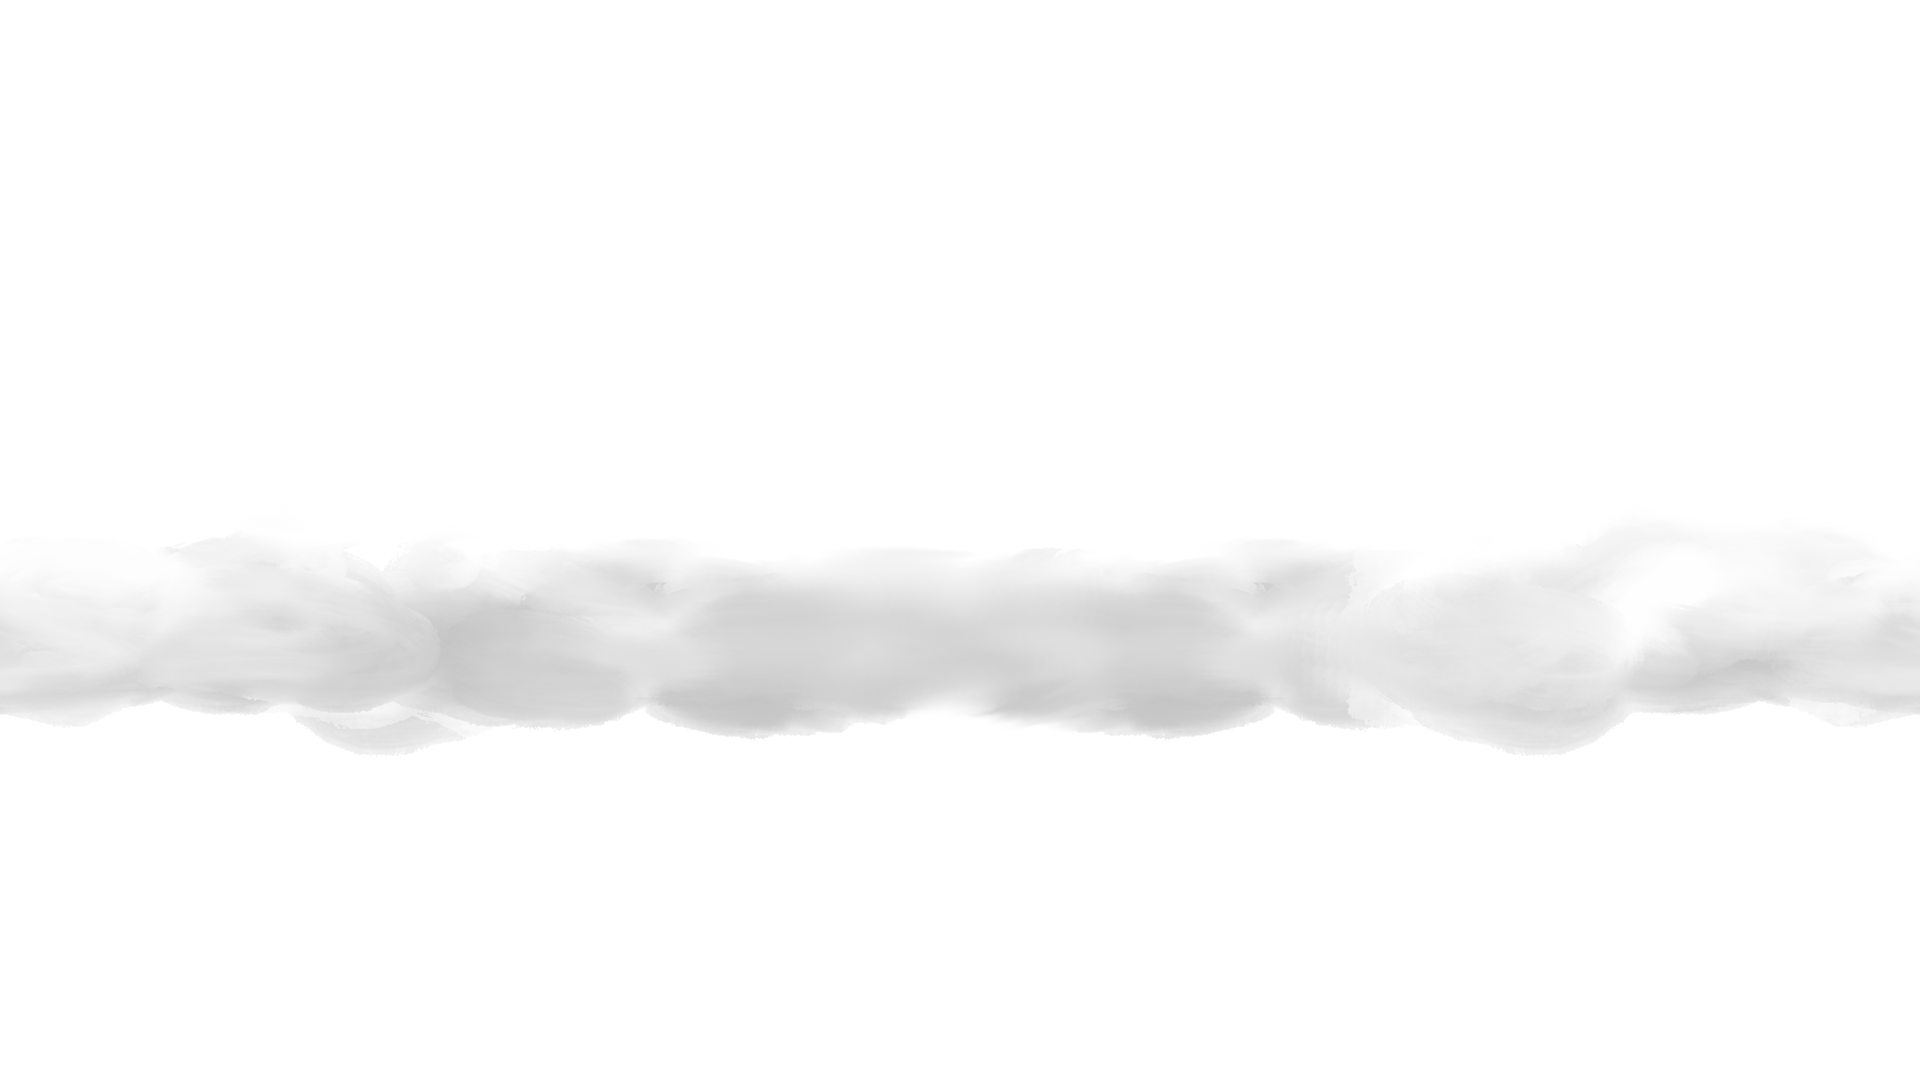
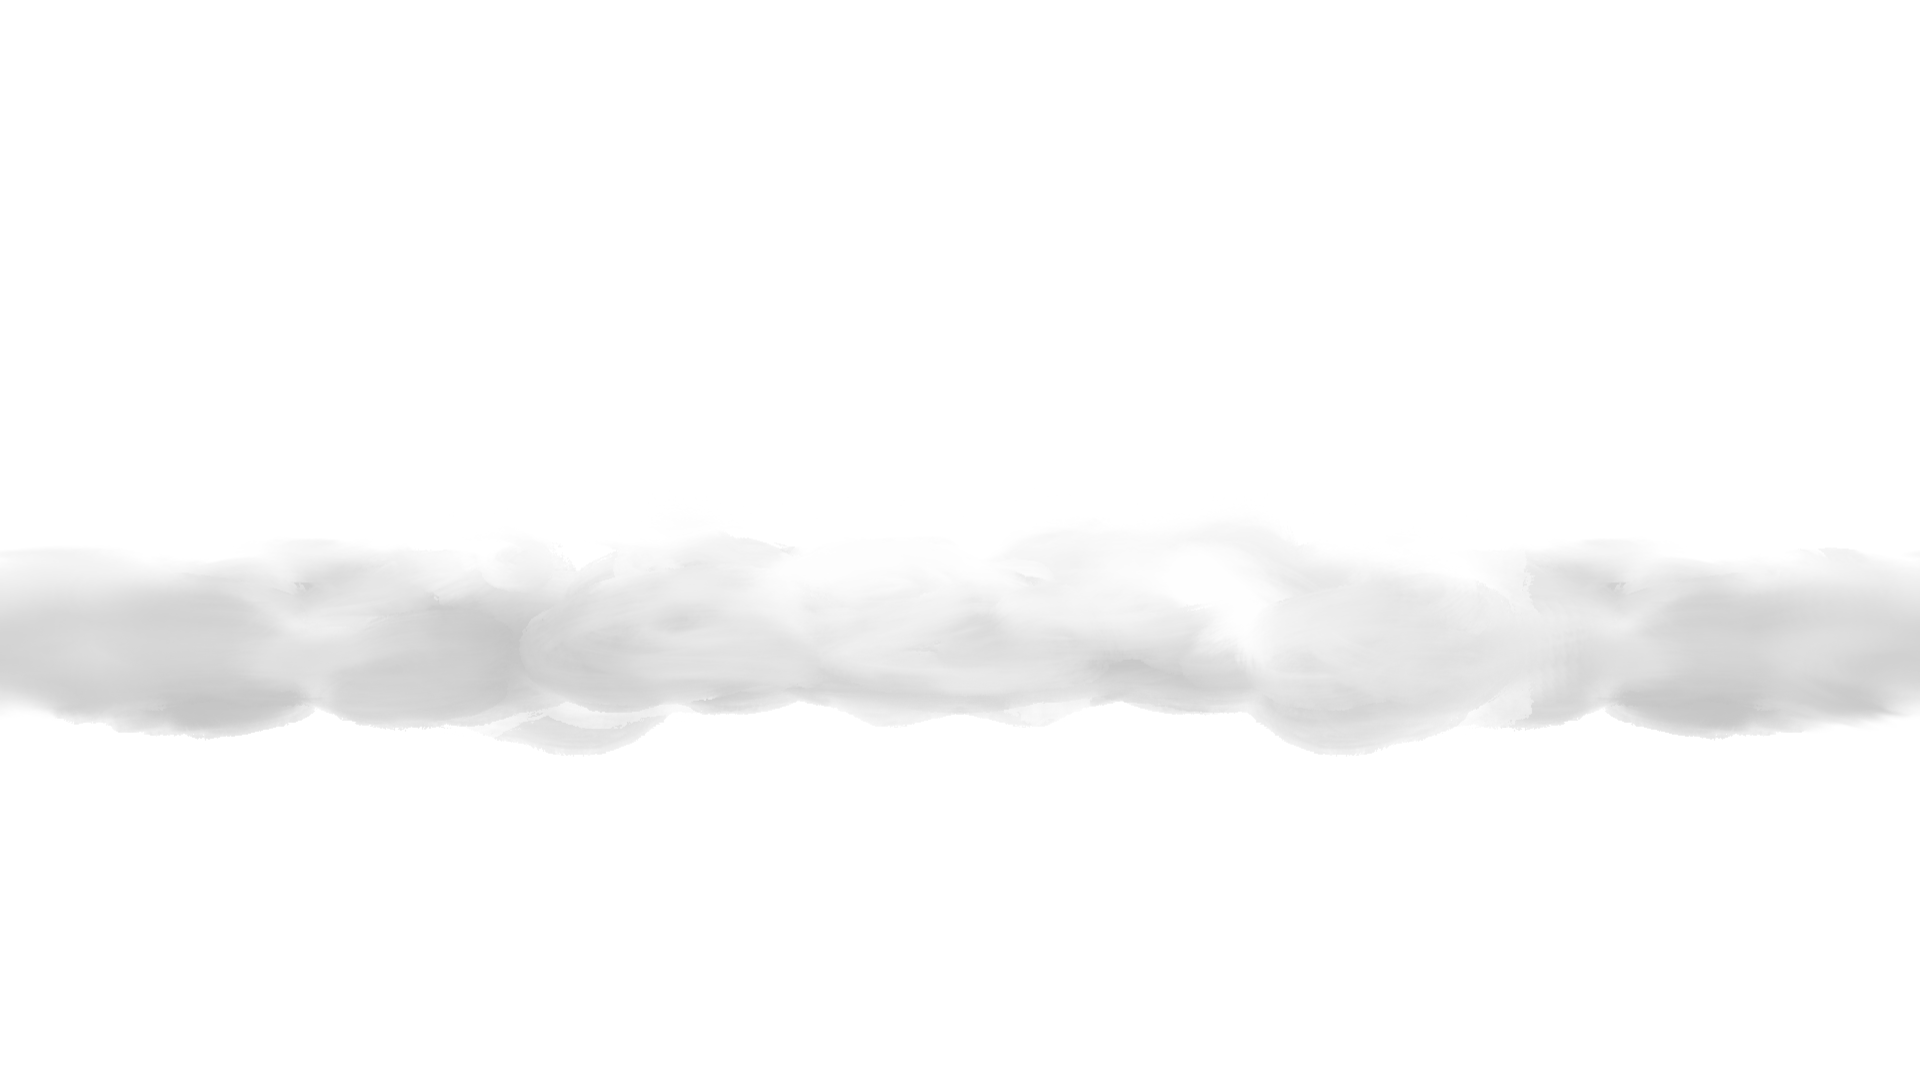
Fixed assetHandler syntax, better rendering for levels/citadel

diff --git a/Spire/Spire/src/handlers/asset_handler.cpp b/Spire/Spire/src/handlers/asset_handler.cpp
@@ -7,43 +7,23 @@ AssetHandler::AssetHandler(){
 	loadAsset("default");
 }
 
-const Texture2D& AssetHandler::getTexture(const std::string itemName){
-#ifdef DEBUG
-	std::cout << "\nFetching asset: " << itemName << "\n";
-#endif
-	uint8_t length = assetId.size();
-	for (uint8_t i = 0; i < length; i++) {
+const Texture2D& AssetHandler::getTextureRef(const std::string& itemName) const{
+	const uint8_t LENGTH = assetId.size();
+	for (uint8_t i = 0; i < LENGTH; i++) {
 		if (itemName == assetId[i].name) {
-#ifdef DEBUG
-			std::cout << "Asset fetched: " << itemName << "\n";
-#endif
 			return textures[i];
 		}
 	}
-#ifdef DEBUG
-	std::cout << "Failed to fetch asset: " << itemName << "\n";
-#endif
 	return textures[0];
 }
+
 void AssetHandler::loadAllAssets()
 {
 	if (!assetsLoaded) {
 		if (loadCount < TOTAL_ASSETS) {
-#ifdef DEBUG
-			if (loadCount == 1) { std::cout << "\nLoading Assets!\n"; }
-#endif
 			loadAsset(assetId[loadCount].name);
 		}
 		else {
-#ifdef DEBUG
-			std::cout << "\nFinished Loading Assets!\n";
-#endif
-			Vector2 scale = { (float)SCREEN_SIZE.x / (float)FULL_SCREEN_SIZE.x, (float)SCREEN_SIZE.y / (float)FULL_SCREEN_SIZE.y };
-
-			for (uint8_t i = 1; i < TOTAL_ASSETS; i++) {
-				textures[i].width = textures[i].width * scale.x;
-				textures[i].height = textures[i].height * scale.y;
-			}
 			assetsLoaded = true;
 		}
 	}
@@ -54,8 +34,7 @@ void AssetHandler::unloadAllAssets(){
 		unloadAsset(assetId[i].name);
 	}
 }
-bool AssetHandler::areAssetsLoaded()
-{
+bool AssetHandler::areAssetsLoaded(){
 	return assetsLoaded;
 }
 
@@ -69,46 +48,28 @@ void AssetHandler::initializeAllAssetIds(){
 	addAssetId("rat", "resources/npc/rat.png");
 	addAssetId("player", "resources/player/player.png");
 }
-void AssetHandler::addAssetId(const std::string itemName, const char* itemFP){
+void AssetHandler::addAssetId(const std::string& itemName, const char* itemFP){
 	assetId.emplace_back(itemName, itemFP);
 	TOTAL_ASSETS++;
 }
-void AssetHandler::loadAsset(const std::string itemName){
-#ifdef DEBUG
-	std::cout << "\nLoading asset: " << itemName << "\n";
-#endif
+void AssetHandler::loadAsset(const std::string& itemName){
 	uint8_t length = assetId.size();
 	for (uint8_t i = 0; i < length; i++) {
 		if (itemName == assetId[i].name) {
 			textures.emplace_back(LoadTexture(assetId[i].filePath));
 			loadCount++;
-#ifdef DEBUG
-	std::cout << "Asset loaded: " << itemName << "\n";
-#endif
 			return;
 		}
 	}
 	textures.emplace_back(LoadTexture(assetId[0].filePath));
 	loadCount++;
-#ifdef DEBUG
-	std::cout << "Error - Could not load asset: " << itemName << "\n";
-#endif
 }
-void AssetHandler::unloadAsset(const std::string itemName){
-#ifdef DEBUG
-	std::cout << "\nUnloading asset: " << itemName << "\n";
-#endif
+void AssetHandler::unloadAsset(const std::string& itemName){
 	uint8_t length = assetId.size();
 	for (uint8_t i = 0; i < length; i++) {
 		if (itemName == assetId[i].name) {
 			UnloadTexture(textures[i]);
-#ifdef DEBUG
-			std::cout << "Asset unloaded: " << itemName << "\n";
-#endif
 			return;
 		}
 	}
-#ifdef DEBUG
-	std::cout << "Error - Could not unload asset: " << itemName << "\n";
-#endif
 }

diff --git a/Spire/Spire/src/levels/citadel.cpp b/Spire/Spire/src/levels/citadel.cpp
@@ -1,37 +1,32 @@
 #include "../../include/levels/citadel.hpp"
 
-Citadel::Citadel(AssetHandler& assets) {
+Citadel::Citadel(std::unique_ptr<AssetHandler> &assets) {
 	this->reserveComponentSpace(8);
 
-	this->addComponent("sunset", assets.getTexture("sunset"), { 0.0f,0.0f });
-	this->addComponent("cloud3.1", assets.getTexture("cloud3"), { 0.0f, -10.0f });
-	this->addComponent("cloud3.2", assets.getTexture("cloud3"), { (float)SCREEN_SIZE.x, -10.0f });
-	this->addComponent("cloud2.1", assets.getTexture("cloud2"), { 0.0f, -20.0f });
-	this->addComponent("cloud2.2", assets.getTexture("cloud2"), { (float)SCREEN_SIZE.x, -20.0f });
-	this->addComponent("cloud1.1", assets.getTexture("cloud1"), { 0.0f, -20.0f });
-	this->addComponent("cloud1.2", assets.getTexture("cloud1"), { (float)SCREEN_SIZE.x, -20.0f });
-	this->addComponent("background", assets.getTexture("citadel"), { 0.0f, 0.0f });
+	this->addComponent("sunset",	 assets->getTextureRef("sunset"),  SCREEN_SIZE, { 0.0f, 0.0f });
+	this->addComponent("cloud3.1",	 assets->getTextureRef("cloud3"),  SCREEN_SIZE, { 0.0f, -35.0f });
+	this->addComponent("cloud3.2",	 assets->getTextureRef("cloud3"),  SCREEN_SIZE, { SCREEN_SIZE.x, -35.0f });
+	this->addComponent("cloud2.1",	 assets->getTextureRef("cloud2"),  SCREEN_SIZE, { 0.0f, -50.0f });
+	this->addComponent("cloud2.2",	 assets->getTextureRef("cloud2"),  SCREEN_SIZE, { SCREEN_SIZE.x, -50.0f });
+	this->addComponent("cloud1.1",	 assets->getTextureRef("cloud1"),  SCREEN_SIZE, { 0.0f, -50.0f });
+	this->addComponent("cloud1.2",	 assets->getTextureRef("cloud1"),  SCREEN_SIZE, { SCREEN_SIZE.x, -50.0f });
+	this->addComponent("background", assets->getTextureRef("citadel"), SCREEN_SIZE, { 0.0f, 0.0f });
 }
 
 void Citadel::update(const float& dt) {
 	moveClouds(dt);
 }
 
-void Citadel::draw(){
-	//DrawRectangleGradientV(0, 0, SCREEN_SIZE.x, SCREEN_SIZE.y, RED, YELLOW);
-	const int LENGTH = components.size();
-	for (int i = 0; i < LENGTH; i++) {
-		//if (i == 6) { continue; }
-		DrawTexture(components[i].texture, components[i].pos.x, components[i].pos.y, WHITE);
-	}
+void Citadel::draw() const{
+	drawAllComponents();
 }
 
 void Citadel::moveClouds(const float& dt){
-	float speed = 2 * dt;
+	float speed = 3 * dt;
 	components[1].pos.x -= speed;
 	components[2].pos.x -= speed;
 
-	speed = 4 * dt;
+	speed = 6 * dt;
 	components[3].pos.x -= speed;
 	components[4].pos.x -= speed;
 

diff --git a/Spire/Spire/src/levels/level.cpp b/Spire/Spire/src/levels/level.cpp
@@ -4,26 +4,33 @@ void Level::reserveComponentSpace(uint8_t size) {
 	components.reserve(size);
 }
 
-void Level::addComponent(std::string name, const Texture2D& texture, Vector2 pos){
-	components.emplace_back(name, texture, pos);
+void Level::addComponent(const std::string name, const Texture2D& texture, const Vector2 size, const Vector2 pos){
+	components.emplace_back(name, texture, size, pos);
 }
 
-void Level::drawComponent(std::string name){
+void Level::drawComponent(const std::string& name) const{
 	uint8_t index = 0;
-	const uint8_t LENGTH = components.size();
-
+	const uint8_t LENGTH{ (uint8_t)components.size() };
 	for (uint8_t i = 0; i < LENGTH; i++) {
 		if (name == components[i].name) {
 			index = i;
 			break;
 		}
 	}
-	DrawTextureV(components[index].texture, components[index].pos, WHITE);
+	DrawTexturePro(
+		components[index].texture,
+		{ 0.0f, 0.0f, (float)components[index].texture.width, (float)components[index].texture.height },
+		{ components[index].pos.x, components[index].pos.y, (float)components[index].size.x, (float)components[index].size.y },
+		{ 0.0f,0.0f }, 0.0f, RAYWHITE);
 }
 
-void Level::draw(){
-	const uint8_t LENGTH = components.size();
+void Level::drawAllComponents() const{
+	const uint8_t LENGTH{ (uint8_t)components.size() };
 	for (uint8_t i = 0; i < LENGTH; i++) {
-		DrawTextureV(components[i].texture, components[i].pos, WHITE);
+		DrawTexturePro(
+			components[i].texture,
+			{ 0.0f, 0.0f, (float)components[i].texture.width, (float)components[i].texture.height },
+			{ components[i].pos.x, components[i].pos.y, (float)components[i].size.x, (float)components[i].size.y },
+			{ 0.0f,0.0f }, 0.0f, RAYWHITE);
 	}
 }

diff --git a/Spire/Spire/include/levels/level.hpp b/Spire/Spire/include/levels/level.hpp
@@ -1,30 +1,33 @@
 #ifndef LEVEL_HPP
 #define LEVEL_HPP
 #include <raylib.h>
+#include <cmath>
 #include <string>
 #include <vector>
 #include "../globals/globals.hpp"
 
-class Image2D {
+class Component {
 
 public:
-	Image2D(std::string name, const Texture2D& texture, Vector2 pos) : 
-		name(name), texture(texture), pos(pos) {
+	Component(const std::string name, const Texture2D& texture, const Vector2 size, const Vector2 pos) :
+		name(name), texture(texture), size(size), pos(pos) 
+	{
+		scale = std::fminf((float)texture.width / size.x, (float)texture.width / size.y);
 	}
 	std::string name;
 	const Texture2D& texture;
+	Vector2 size;
 	Vector2 pos;
+	float scale;
 };
 
 class Level
 {
 public:
-	std::vector<Image2D> components;
-
+	std::vector<Component> components;
 	void reserveComponentSpace(uint8_t size);
-	void addComponent(std::string name, const Texture2D& texture, Vector2 pos);
-	void drawComponent(std::string name);
-	virtual void update(const float& dt) {};
-	virtual void draw();
+	void addComponent(const std::string name, const Texture2D& texture, const Vector2 size, const Vector2 pos);
+	void drawComponent(const std::string& name) const;
+	void drawAllComponents() const;
 };
 #endif

diff --git a/Spire/Spire/include/handlers/asset_handler.hpp b/Spire/Spire/include/handlers/asset_handler.hpp
@@ -18,17 +18,16 @@ public:
 	std::vector<AssetID> assetId;
 	std::vector<Texture2D> textures;
 
-	const Texture2D& getTexture(const std::string itemName);
+	const Texture2D& getTextureRef(const std::string& itemName) const;
 
 	void loadAllAssets();
 	void unloadAllAssets();
-
 	bool areAssetsLoaded();
 
 private:
 	void initializeAllAssetIds();
-	void addAssetId(const std::string itemName, const char* itemFP);
-	void loadAsset(const std::string itemName);
-	void unloadAsset(const std::string itemName);
+	void addAssetId(const std::string& itemName, const char* itemFP);
+	void loadAsset(const std::string& itemName);
+	void unloadAsset(const std::string& itemName);
 };
 #endif

diff --git a/Spire/Spire/src/game/game.cpp b/Spire/Spire/src/game/game.cpp
@@ -29,7 +29,7 @@ void Game::update(const float &dt){
 		if (assetHandler->areAssetsLoaded()) { changeGameScreen(INITIALIZING); }
 		break;
 	case INITIALIZING:
-		citadel = std::make_unique<Citadel>(*assetHandler);
+		citadel = std::make_unique<Citadel>(assetHandler);
 		changeGameScreen(MAIN_MENU);
 		break;
 	case MAIN_MENU:

diff --git a/Spire/Spire/include/levels/citadel.hpp b/Spire/Spire/include/levels/citadel.hpp
@@ -6,9 +6,10 @@
 class Citadel : public Level
 {
 public:
-	Citadel(AssetHandler& assets);
-	void update(const float &dt) override;
-	void draw() override;
+	Citadel(std::unique_ptr<AssetHandler> &assets);
+
+	void update(const float &dt);
+	void draw() const;
 private:
 	void moveClouds(const float &dt);
 };

diff --git a/Spire/Spire/include/game/game.hpp b/Spire/Spire/include/game/game.hpp
@@ -18,9 +18,11 @@ private:
 	Camera2D camera{ 0 };
 	RenderTexture2D window{ 0 };
 	GameScreen screen{ GameScreen::LOADING };
+
+
 	std::unique_ptr<AssetHandler> assetHandler{ nullptr };
 	std::unique_ptr<Citadel> citadel{ nullptr };
-	
+
 	void update(const float &dt);
 	void draw();
 	void freeResources();

diff --git a/Spire/Spire/include/globals/globals.hpp b/Spire/Spire/include/globals/globals.hpp
@@ -25,5 +25,5 @@ public:
 };
 
 static const Vector2 FULL_SCREEN_SIZE{ 1920, 1080 };
-static const Vector2 SCREEN_SIZE{ 1440,810 };
+static const Vector2 SCREEN_SIZE{ 1920 - (1920 / 3),1080 - (1080 / 3) };
 #endif

diff --git a/Spire/Spire/include/player/player.hpp b/Spire/Spire/include/player/player.hpp
@@ -1,0 +1,8 @@
+#ifndef PLAYER_HPP
+#define PLAYER_HPP
+class Player
+{
+public:
+private:
+};
+#endif

diff --git a/Spire/Spire/src/player/player.cpp b/Spire/Spire/src/player/player.cpp
@@ -1,0 +1,1 @@
+#include "../../include/player/player.hpp"
